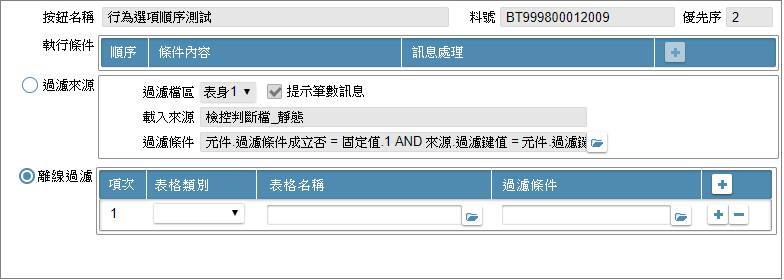
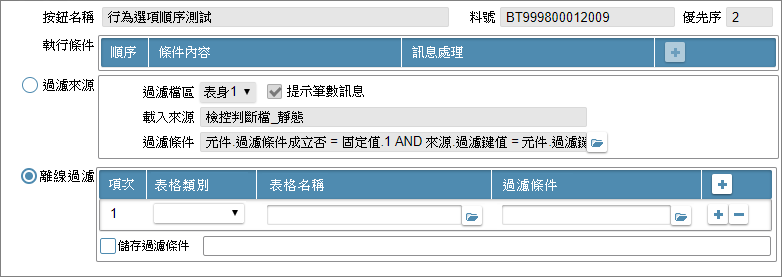
IDE_擴增MAE離線功能_資料過濾

diff --git a/8.10.0/UPDATE/ITEM_1/IDE/ButtonAnnotation/BAFilter_SaveFilterContent.md b/8.10.0/UPDATE/ITEM_1/IDE/ButtonAnnotation/BAFilter_SaveFilterContent.md
@@ -1,0 +1,89 @@
+## <div id="user">規劃人員</div>
+* Prenkt
+
+### <div id="updatedate">規劃日期</div>
+* 2020/12/4
+
+## <div id="behavior-layout">版面相關</div>
+* 版面
+    * ![pic][image_savefiltercontent]
+
+## <div id="behavior-form-action">動作說明</div>
+* 依 [按鍵加註-資料過濾-離線過濾][link_BAFilter] 的`儲存過濾內容`開啟, 顯示本單內容
+* 下列欄位, 除規格說明中有額外說明, 否則所有欄位須判斷: 若前單為瀏覽狀態: 除能; 編輯狀態: 致能
+
+## <div id="behavior-object-desc">欄位說明</div>
+* <p id="fieldbreak1" style="color:blue;font-weight:bold">基本</p>
+
+    * ![pic][image_savefiltercontent_block1]
+    * `(1)寫入資料表`
+        * 用途說明
+        * 規格說明
+            * 參照 [挑選資料表通則][link_ruledialog3], 從駐留專案中, 進行資料表挑選, 限定使用`離線資料上傳用`未勾選的資料表,  回傳並顯示: 表格名稱
+    * `(2)寫入欄位表格`
+        * 用途說明
+        * 規格說明
+            * 參照 [操作一般表格通則][link_rulebutton3]
+    * `(3)目的欄位`
+        * 用途說明
+        * 規格說明
+            * 參照 [挑選資料表元件通則][link_ruledialog5], 限定使用`(1)寫入資料表`
+    * `(4)給值類別`
+        * 用途說明
+        * 規格說明
+            * 下拉選項: 離線批號 / 表單元件 / 表單參數 / 全域變數
+            * 異動時清除欄位: `(7)給值內容`
+    * `(5)給值內容`
+        * 用途說明
+        * 規格說明
+            * 當`(6)給值類別`=離線批號: 設計者無須輸入內容, 運行時由系統回傳離線批號寫入
+            * 當`(6)給值類別`=表單元件: [挑選表單元件通則][link_ruledialog7], 從駐留表單中, 進行元件挑選, 回傳:表單元件 ; 若元件為 個資加密且已解密欄位 或 密碼欄位, 則該元件顯示紅色字體紅色字體
+            * 當`(6)給值類別`=表單參數: [挑選表單參數通則][link_ruledialog9], 從駐留表單中, 進行表單參數挑選, 回傳:表單參數
+            * 當`(6)給值類別`=全域變數: [挑選全域變數通則][link_ruledialog10], 從駐留專案中, 進行全域變數挑選, 回傳:全域變數
+    * `(6)確定`
+        * 用途說明
+        * 規格說明
+            * 若前單為瀏覽狀態: 隱藏; 編輯狀態: 顯示
+            * 將本次修改資料回傳前單後關閉本單
+    * `(7)取消`
+        * 用途說明
+        * 規格說明
+            * 若前單為瀏覽狀態: 隱藏; 編輯狀態: 顯示
+            * 顯示訊息盒【標題: 系統訊息 / 訊息內容: 資料尚未儲存, 是否確定取消? / 按鍵: 確定、取消】
+                * 確定: 關閉訊息盒, 直接關閉本單
+                * 取消: 關閉訊息盒, 回到本單畫面
+
+
+## <div id="save-action">確定檢控</div>
+* 參照 [存回不允空白檢控通則][link_ruleother7]
+    * [基本][link_fieldbreak1]
+        * `寫入資料表`, 不允空白
+        * 當`寫入欄位表格`存在記錄, `目的欄位`、`給值類別`, 不允空白
+        * 當`給值類別`為表單元件/表單參數/全域變數時, `給值內容`不允空白
+
+* 參照 [存回其它檢控通則][link_ruleother8]
+    * [基本][link_fieldbreak1]
+        * `目的欄位`, 不允重複
+            * 訊息內容: 同一按鍵的各加註內容順序不允重複
+
+
+<!--圖片 -->
+[image_savefiltercontent]:attachment/BAFilter_SaveFilterContent.png
+[image_savefiltercontent_block1]:attachment/BAFilter_SaveFilterContent_Block1.png
+
+
+<!--超連結 -->
+[link_fieldbreak1]:#fieldbreak1 "欄位說明/基本"
+[link_BAFilter]:BAFilter.md
+[link_ruleother1]:/8.10.0/IDE/Specification/RulesOther/README#ruleother1 "共用通則_其它/版面資訊通則"
+[link_ruleother2]:/8.10.0/IDE/Specification/RulesOther/README#ruleother2 "共用通則_其它/單據異動資料按鍵操作通則"
+[link_ruleother7]:/8.10.0/IDE/Specification/RulesOther/README#ruleother7 "共用通則_其它/存回不允空白檢控通則"
+[link_ruleother8]:/8.10.0/IDE/Specification/RulesOther/README#ruleother8 "共用通則_其它/存回其它檢控通則"
+
+[link_rulebutton3]:/8.10.0/IDE/Specification/RulesButton/README#rulebutton3 "共用通則_按鍵/操作表格記錄通則"
+
+[link_ruledialog7]:/8.10.0/IDE/Specification/RulesDialog/README#ruledialog7 "共用通則_開啟單據/挑選表單元件通則"
+[link_ruledialog9]:/8.10.0/IDE/Specification/RulesDialog/README#ruledialog9 "共用通則_開啟單據/挑選表單參數通則"
+[link_ruledialog10]:/8.10.0/IDE/Specification/RulesDialog/README#ruledialog10 "共用通則_開啟單據/挑選全域變數通則"
+[link_ruledialog3]:/8.10.0/IDE/Specification/RulesDialog/README#ruledialog3 "共用通則_開啟單據/挑選資料表通則"
+[link_ruledialog5]:/8.10.0/IDE/Specification/RulesDialog/README#ruledialog5 "共用通則_開啟單據/挑選資料表元件通則"

diff --git a/8.10.0/UPDATE/ITEM_1/IDE/ButtonAnnotation/BAFilter.md b/8.10.0/UPDATE/ITEM_1/IDE/ButtonAnnotation/BAFilter.md
@@ -5,11 +5,91 @@
 * 2020/12/4
 
 ## <div id="behavior-layout">版面相關</div>
+
 * 版面
-    * ![pic][image_bafilter]
+    * STD
+        * ![pic][image_bafilter_STD]
+    * RWD
+        * 同STD
+    * 離線用APP
+        * 同STD
+    * APP
+        * ![pic][image_bafilter_MAE]
 
 ## <div id="behavior-object-desc">欄位說明</div>
 
+* ![pic][image_bafilter_block1]
+* `(1)過濾類別`
+    * 用途說明
+    * 規格說明
+        * 單選選項: 過濾來源 / 離線過濾
+        * 系統預設選項: 過濾來源
+        * 當表單設計類型=APP, 且`離線用`未勾選時, 顯示 單選選項, 否則隱藏 單選選項
+* `(2)過濾來源`
+    * 用途說明
+        * 依資料區來源檢視表設定過濾條件，進行資料過濾
+    * 規格說明
+        * 當`(1)過濾類別`=過濾來源時, 過濾來源區塊 致能, 否則 除能
+* `(3)離線過濾`
+    * 用途說明
+        * 過濾離線資料下載範圍用
+        * 系統依對應的離線任務若不下載資料，則無須
+    * 規格說明
+        * 當`(1)過濾類別`=離線過濾時, 離線過濾區塊 致能, 否則 除能
+* `(4)離線過濾表格`
+    * 用途說明
+    * 規格說明
+        * 參照 [操作表格記錄通則][link_rulebutton3]
+* `(5)表格類別`
+    * 用途說明
+    * 規格說明
+        * 下拉選項: 資料表 / 檢視表
+        * 異動時清除欄位:`(6)表格名稱`
+* `(6)表格名稱`
+    * 用途說明
+    * 規格說明
+        * 參照 [挑選檢視表通則][link_ruledialog4], 從駐留專案中, 進行檢視表挑選, 並限定使用`離線用`為未勾選的檢視表, 回傳並顯示: 檢視表名稱
+        * 參照 [挑選資料表通則][link_ruledialog3], 從駐留專案中, 進行資料表挑選, 回傳並顯示: 表格名稱
+* `(7)過濾條件`
+    * 用途說明
+    * 規格說明
+        * 參照 [操作條件式通則][link_ruledialog1], 限定使用`(6)表格名稱`的內容, 回傳並顯示: 條件說明
+* `(8)儲存過濾內容`
+    * 用途說明
+        * 儲存本單設定過濾內容
+    * 規格說明
+        * 系統預設: 未勾選
+        * 當未勾選時, 儲存區塊 隱藏
+            * 當有勾選時,
+                * 儲存區塊 未設定時, 顯示:尚未設定 灰色字體(#aaa)
+                * 可超連結開啟 [儲存過濾內容][link_savefilterContent], 關單後顯示:*表格名稱*
+
+
+## <div id="save-action">儲存檢控</div>
+* 參照 [存回不允空白檢控通則][link_ruleother7]
+    * 當`離線過濾表格`存在記錄時
+        * `表格類別`、`表格名稱`、`過濾條件`, 不允空白
+* 參照 [存回其它檢控通則][link_ruleother8]
+    * 當`儲存過濾內容`為已勾選, 對應的儲存區塊須有值
+        * 訊息內容: 已設定為儲存過濾內容, 但尚未設定儲存過濾內容
+
 
 <!--圖片 -->
-[image_bafilter]:attachment/BAFilter.png
+[image_bafilter_STD]:attachment/BAFilter_STD.png
+[image_bafilter_MAE]:attachment/BAFilter_MAE.png
+[image_bafilter_block1]:attachment/BAFilter_Block1.png
+
+<!-- 超連結 -->
+[link_savefilterContent]:BAFilter_SaveFilterContent.md
+
+[link_ruleother7]:/8.10.0/IDE/Specification/RulesOther/README#ruleother7 "共用通則_其它/存回不允空白檢控通則"
+[link_ruleother8]:/8.10.0/IDE/Specification/RulesOther/README#ruleother8 "共用通則_其它/存回其它檢控通則"
+
+[link_rulebutton3]:/8.10.0/IDE/Specification/RulesButton/README#rulebutton3 "共用通則_按鍵/操作表格記錄通則"
+
+[link_ruledialog1]:/8.10.0/IDE/Specification/RulesDialog/README#ruledialog1 "共用通則_開啟單據/操作條件式通則"
+[link_ruledialog3]:/8.10.0/IDE/Specification/RulesDialog/README#ruledialog3 "共用通則_開啟單據/挑選資料表通則"
+[link_ruledialog4]:/8.10.0/IDE/Specification/RulesDialog/README#ruledialog4 "共用通則_開啟單據/挑選檢視表通則"
+
+
+

diff --git a/8.10.0/UPDATE/ITEM_1/IDE/README.md b/8.10.0/UPDATE/ITEM_1/IDE/README.md
@@ -69,6 +69,7 @@
         * 郵件發送: 引用資料表、檢視表、表單, 增加離線資料上傳用、離線用判斷
         * 資料載入: 引用資料表、檢視表、表單, 增加離線資料上傳用、離線用判斷
         * 資料過濾: 新增離線用APP表單的加註介面
+            * 儲存過濾設定內容: 新增本單
         * 外部執行: 引用資料表、檢視表、表單, 增加離線資料上傳用、離線用判斷
         * 溝通訊息: 引用資料表、檢視表、表單, 增加離線資料上傳用、離線用判斷
         * 表單特效: 引用資料表、檢視表、表單, 增加離線資料上傳用、離線用判斷

diff --git a/8.10.0/UPDATE/ITEM_1/IDE/ButtonAnnotation/_sidebar.md b/8.10.0/UPDATE/ITEM_1/IDE/ButtonAnnotation/_sidebar.md
@@ -12,6 +12,7 @@
 * [郵件發送](BAMail)
 * [資料載入](BAImport)
 * [資料過濾](BAFilter)
+    * [儲存資料過濾](BAFilter_SaveFilterContent)
 * [外部執行](BAExecute)
 * [溝通訊息](BATalk)
 * [表單特效](BAFormEffect)
